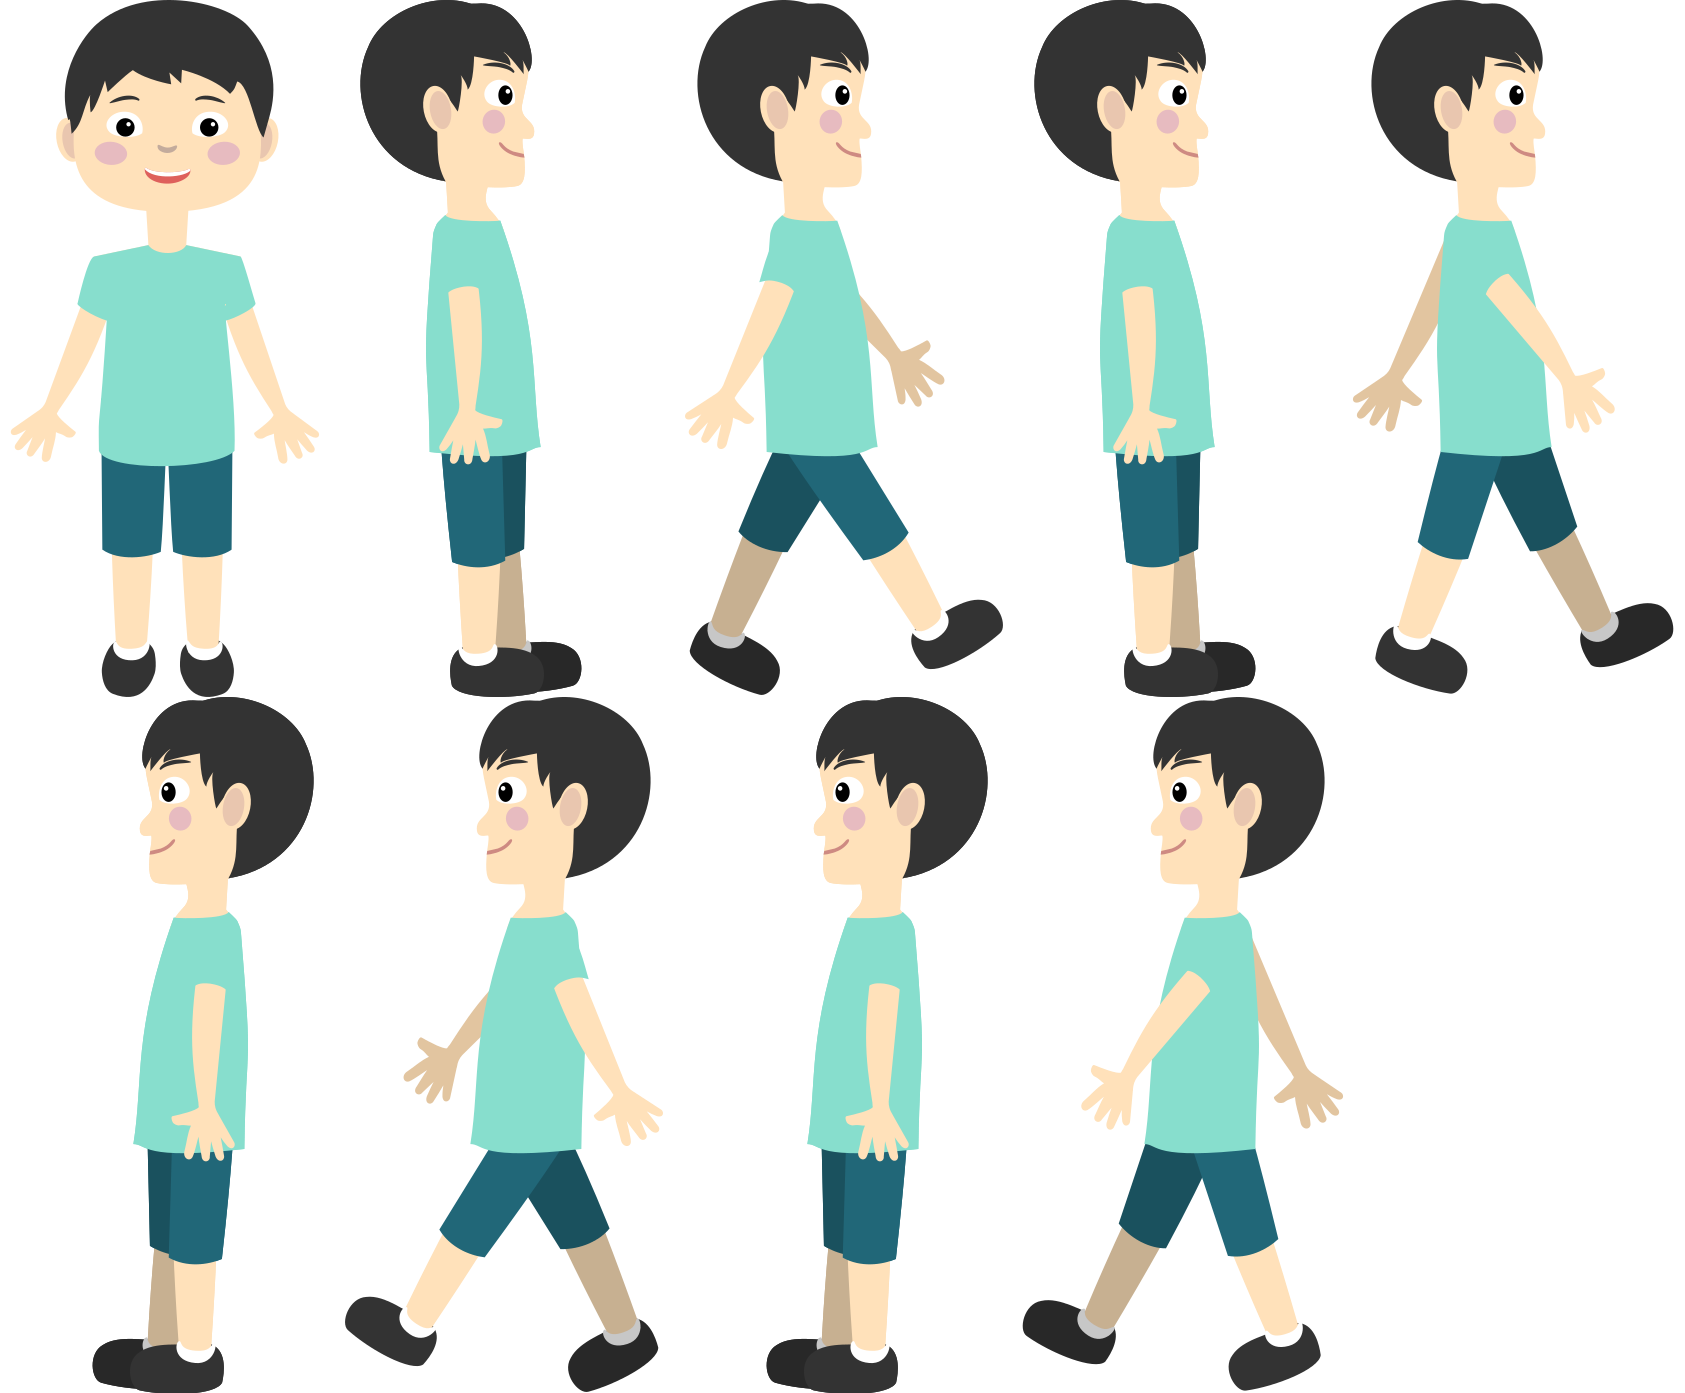
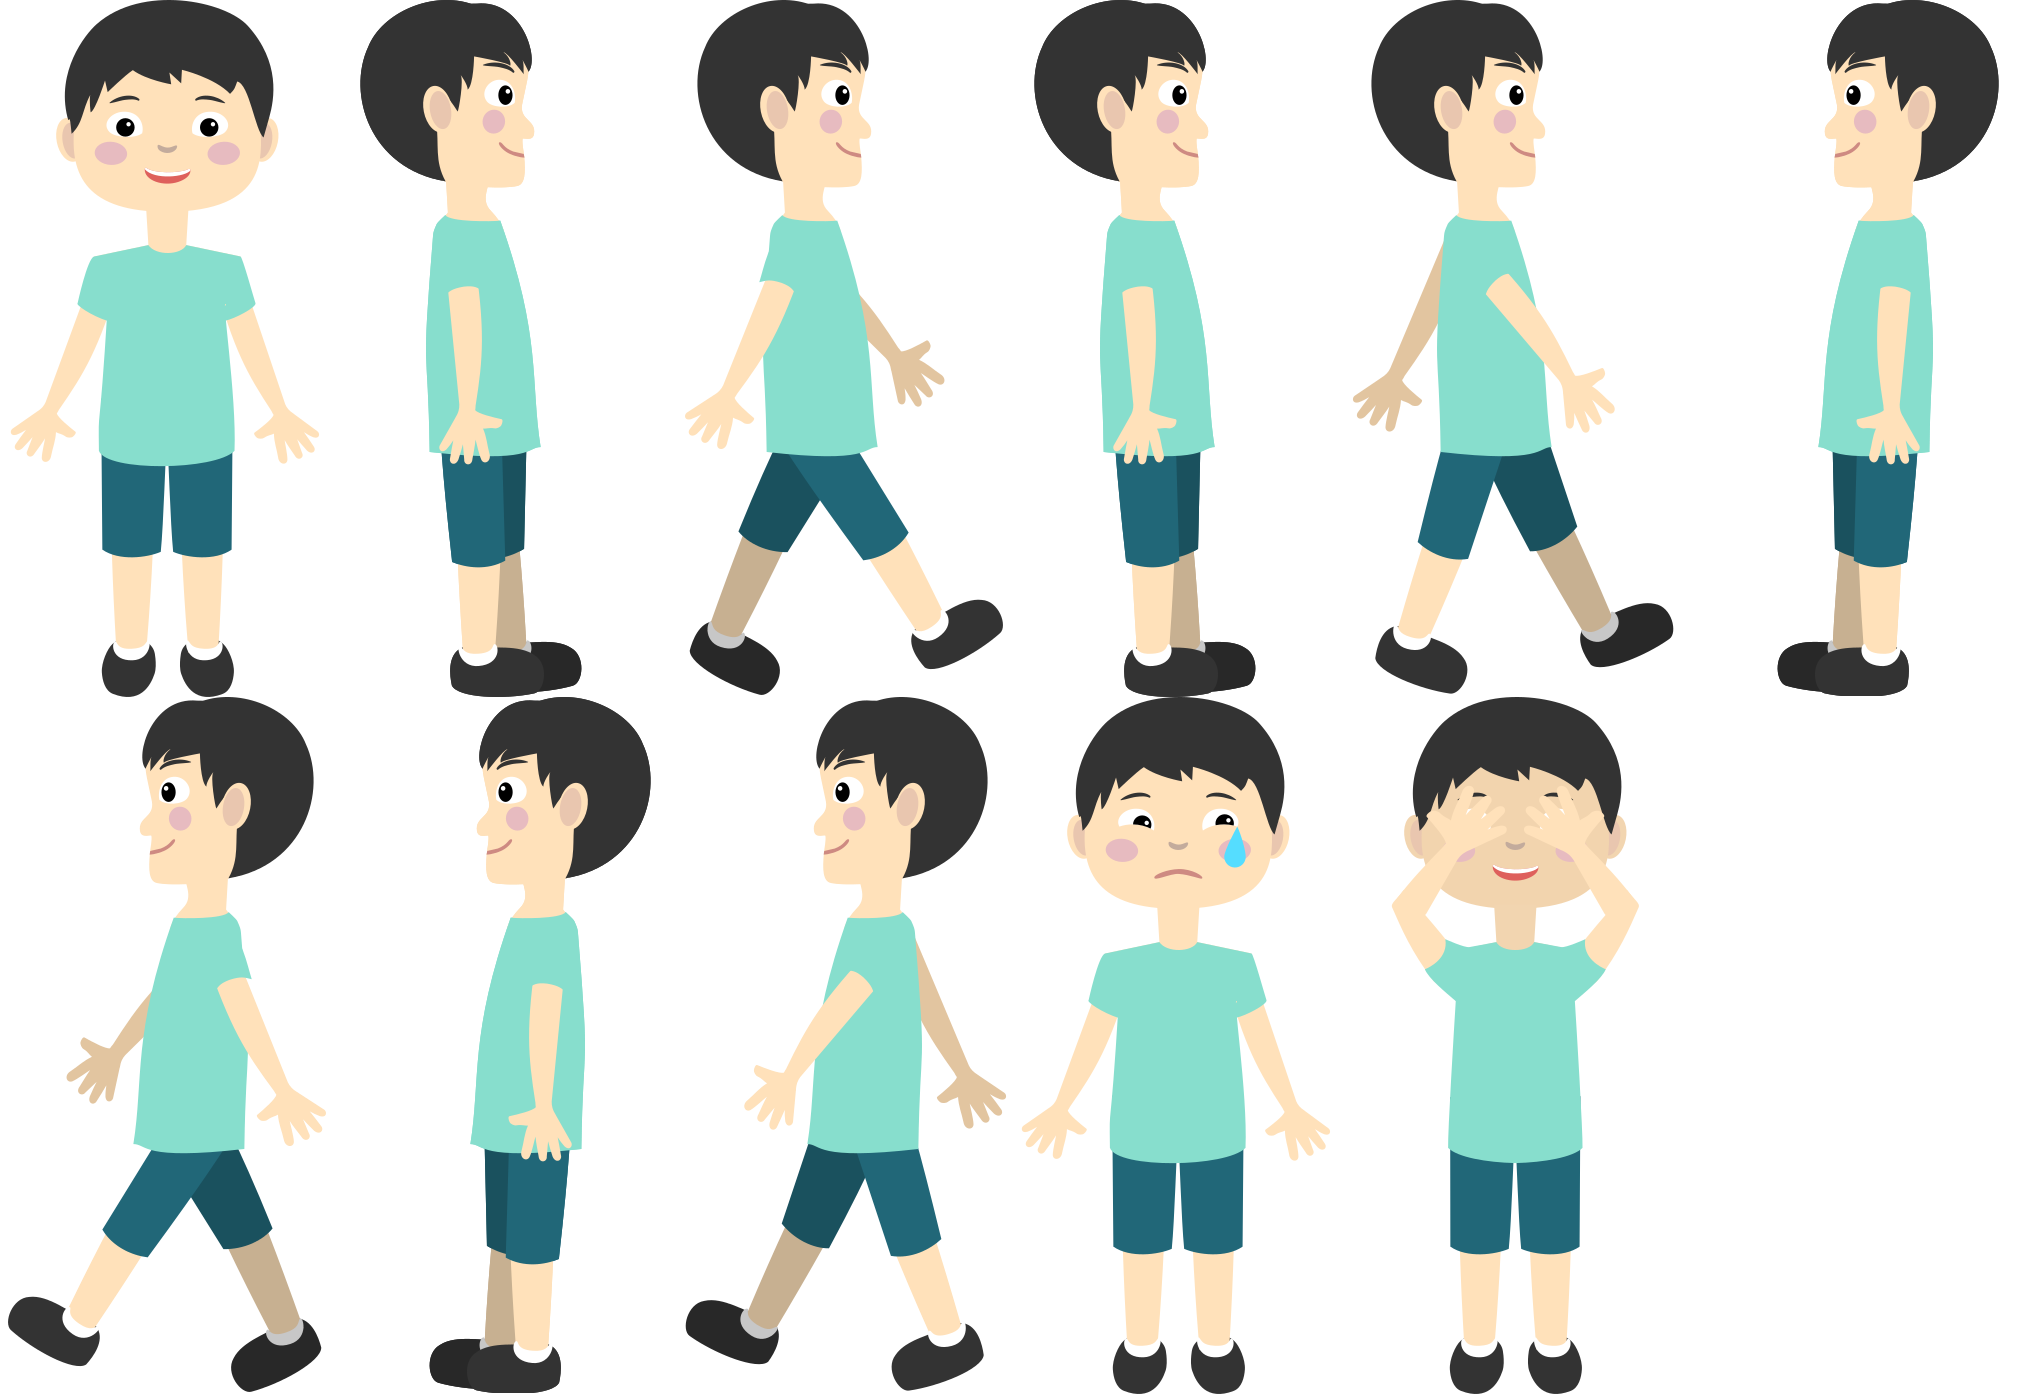
Added basics of park activity: finding a dog (alternative: hide and seek [commented])

diff --git a/js/park.js b/js/park.js
@@ -1,6 +1,7 @@
 let parkState = {
     create: function(){
         game.clickSound = game.add.audio('clickSound');
+        game.sadSound = game.add.audio('sadSound');
 
         game.park = game.add.sprite(0, 0, 'park');
         
@@ -29,7 +30,18 @@ let parkState = {
         game.cloud3 = game.add.sprite(40, 60, 'town', 'cloud3.png');
 
         game.dog = game.add.sprite(-480, 630, 'dog');        
+        game.dog.scale.setTo(0.9);
         game.boy1 = game.add.sprite(0, 340, 'boy1');
+        game.boy1.scale.setTo(0.9);
+        /*game.girl1 = game.add.sprite(-300, 340, 'girl1');
+        game.girl1.scale.setTo(0.9);
+        game.girl2 = game.add.sprite(-600, 340, 'girl2');
+        game.girl2.scale.setTo(0.9);
+        game.hideBubble = game.add.sprite(1200, 140, 'hideBubble');
+        game.hideBubble.visible = false;*/        
+
+        game.yesButton = game.add.button((game.width/2)-150, game.height - 350, 'yesPCS', this.playHide, this, 1, 0, 1);
+        game.yesButton.visible = false;
 
         game.backButton = game.add.button(100, 100, 'backButton', this.backToMenu, this, 1, 0, 2);
         game.backButton.anchor.setTo(0.5);
@@ -43,10 +55,14 @@ let parkState = {
         game.pointsNumber.anchor.setTo(0.5);
 
         this.walkAnimation(game.boy1, Phaser.Animation.generateFrameNames('boy', 2, 5, '.png', 3), 5);
+        //this.walkAnimation(game.girl1, Phaser.Animation.generateFrameNames('girl', 2, 5, '.png', 3), 6);
+        //this.walkAnimation(game.girl2, Phaser.Animation.generateFrameNames('girl', 2, 5, '.png', 3), 5);
         game.dog.animations.add('dogWalkAnimation', [0, 1, 0, 2], 6, true);
         game.dog.animations.play('dogWalkAnimation'); 
         
         game.boy1.walkEnd = false;
+        //game.girl1.walkEnd = false;
+        //game.girl2.walkEnd = false;
         game.dog.walkEnd = false;
         
     },
@@ -70,11 +86,17 @@ let parkState = {
         }
         
         if(!game.boy1.walkEnd){
-            this.moveCharacter(game.boy1, 1350, "right", 4);
-        } 
+            this.moveCharacter(game.boy1, 1000, "right", 4);
+        }
+        /*if(!game.girl1.walkEnd){
+            this.moveCharacter(game.girl1, 700, "right", 4);
+        }
+        if(!game.girl2.walkEnd){
+            this.moveCharacter(game.girl2, 400, "right", 4);
+        }*/
         if(!game.dog.walkEnd){
-            this.moveCharacter(game.dog, 800, "right", 4);
-        }       
+            this.moveCharacter(game.dog, 500, "right", 4);
+        }      
     },
 
     
@@ -95,6 +117,10 @@ let parkState = {
                 if(game.dog.walkEnd && game.boy1.walkEnd){
                     this.hideDog();
                 }
+                /*if(game.boy1.walkEnd){
+                    game.hideBubble.visible = true;
+                    game.yesButton.visible = true;
+                }*/
             }
         }else{
             if(character.x > destination){
@@ -106,23 +132,38 @@ let parkState = {
                 if(game.dog.walkEnd && game.boy1.walkEnd){
                     this.hideDog();
                 }
+                /*if(game.boy1.walkEnd){
+                    game.hideBubble.visible = true;
+                    game.yesButton.visible = true;
+                }*/
             }
         } 
     },
 
     hideDog: function(){
         game.dog.visible = false;
+        game.boy1.frame = 9;
+        game.sadSound.play();
         game.dogHidden1.visible = true;
         game.dogHidden1.inputEnabled = true;
-        game.dogHidden1.events.onInputDown.add(this.showDog, {dog1: game.dogHidden1, dog2: game.dogHidden2});
+        game.dogHidden1.events.onInputDown.add(this.showDog, game.dogHidden1);
     },
 
     showDog: function(){
-        this.dog1.visible = false;
-        this.dog2.visible = true;
+        this.visible = false;
+        game.dog.visible = true;
+        game.boy1.frame = 0;
         points++;
         game.pointsNumber.setText(points);
+        game.add.tween(game.star).to( { angle: 360 }, 1000, Phaser.Easing.Linear.None, true);
     },
+
+    /*playHide: function(){
+        game.clickSound.play();
+        game.yesButton.visible = false;
+        game.hideBubble.visible = false;
+        game.boy1.frame = 10;
+    },*/
 
     backToMenu: function(){
         game.clickSound.play();

diff --git a/js/load.js b/js/load.js
@@ -11,18 +11,22 @@ let loadState = {
         game.load.spritesheet('fullButton', 'assets/images/full_button.png', 180, 180);
         game.load.image('star', 'assets/images/star.png');
         game.load.image('star2', 'assets/images/star2.png');
-        
+
+        game.load.atlasJSONHash('boy1', 'assets/images/characters/boy1.png', 'assets/images/characters/boy1.json');
+        game.load.atlasJSONHash('girl1', 'assets/images/characters/girl1.png', 'assets/images/characters/girl1.json');
+        game.load.atlasJSONHash('girl2', 'assets/images/characters/girl2.png', 'assets/images/characters/girl2.json');
+
         game.load.image('town_background', 'assets/images/town/town_background.png');
         game.load.atlasJSONHash('town', 'assets/images/town/town.png', 'assets/images/town/town.json');
         
         game.load.image('roomBackground', 'assets/images/house/room_background.png');
         game.load.image('furniture', 'assets/images/house/furniture.png');
-        game.load.atlasJSONHash('boy1', 'assets/images/characters/boy1.png', 'assets/images/characters/boy1.json');
         
         game.load.image('blocksBackground', 'assets/images/house/blocks_background.png');
         game.load.image('blocksPicture1', 'assets/images/house/blocks_picture_1.png');
         game.load.image('blocksPicture2', 'assets/images/house/blocks_picture_2.png');        
         game.load.image('blocksPicture3', 'assets/images/house/blocks_picture_3.png');
+        game.load.image('blocksPicture4', 'assets/images/house/blocks_picture_4.png');
         game.load.atlasJSONHash('blocks', 'assets/images/house/blocks.png', 'assets/images/house/blocks.json');
         game.load.spritesheet('boySitting', 'assets/images/house/boy_sitting.png', 389, 752);
         
@@ -31,6 +35,7 @@ let loadState = {
         
         game.load.image('park', 'assets/images/park/park.png');
         game.load.image('parkObjects', 'assets/images/park/parkObjects.png');
+        game.load.image('hideBubble', 'assets/images/park/hide_bubble.png');
         game.load.spritesheet('dog', 'assets/images/park/dog.png', 545, 382);
 
         game.load.image('shop', 'assets/images/shop/shop.png');
